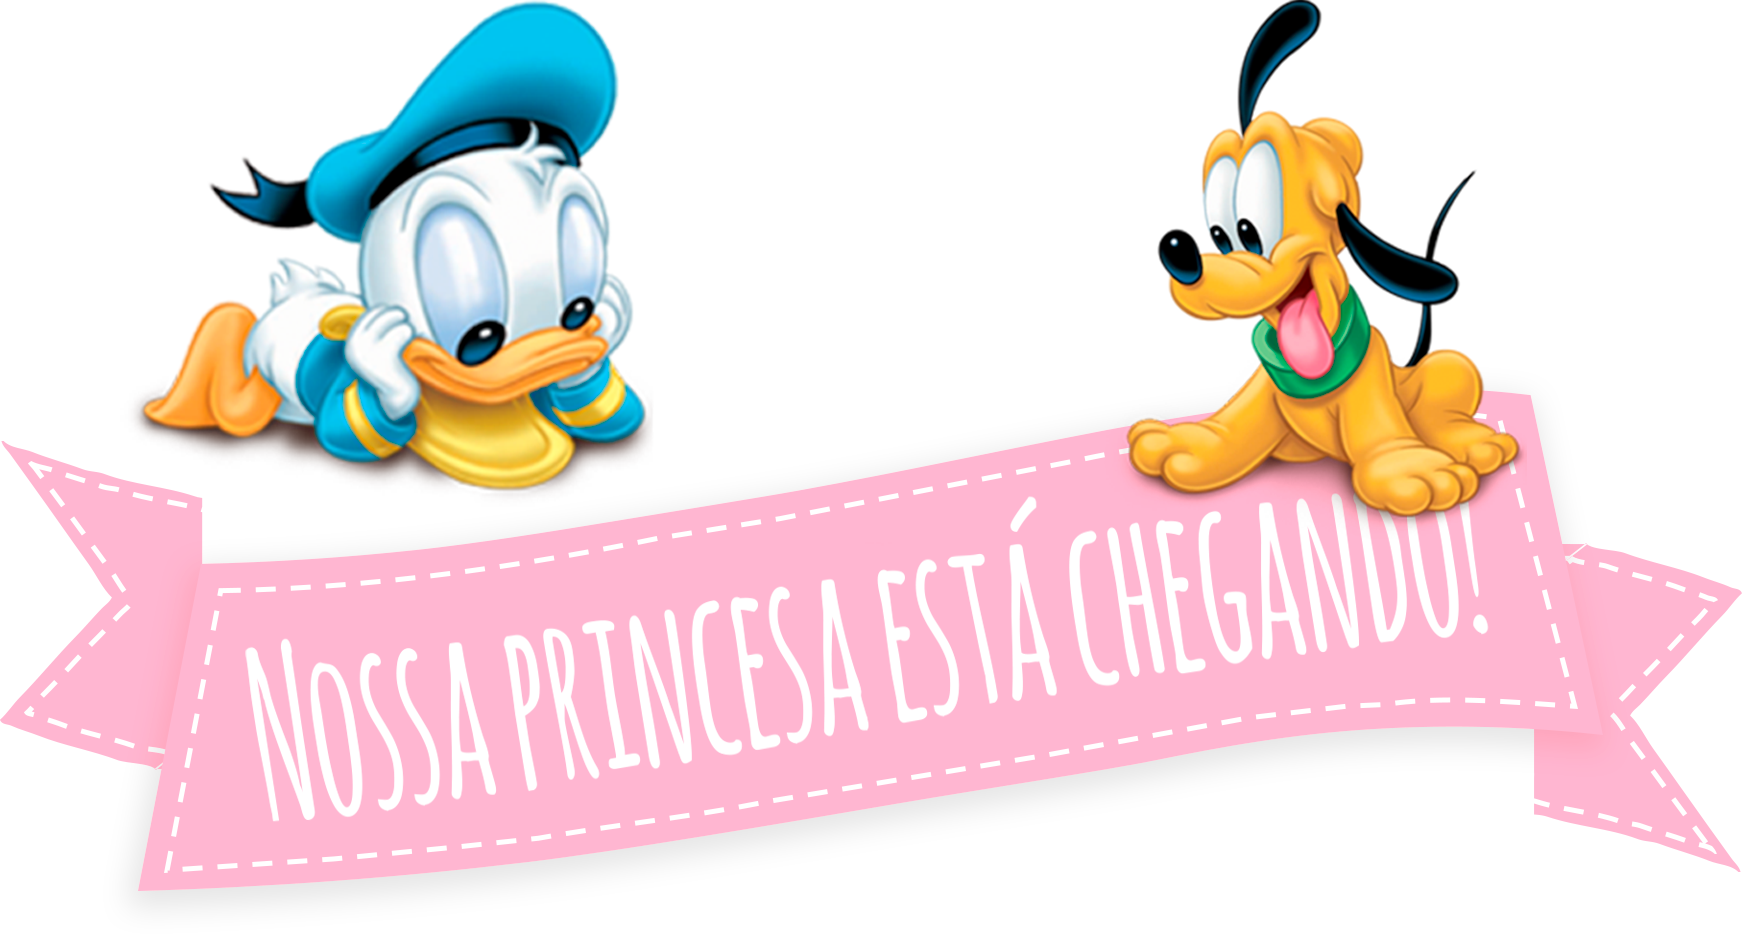
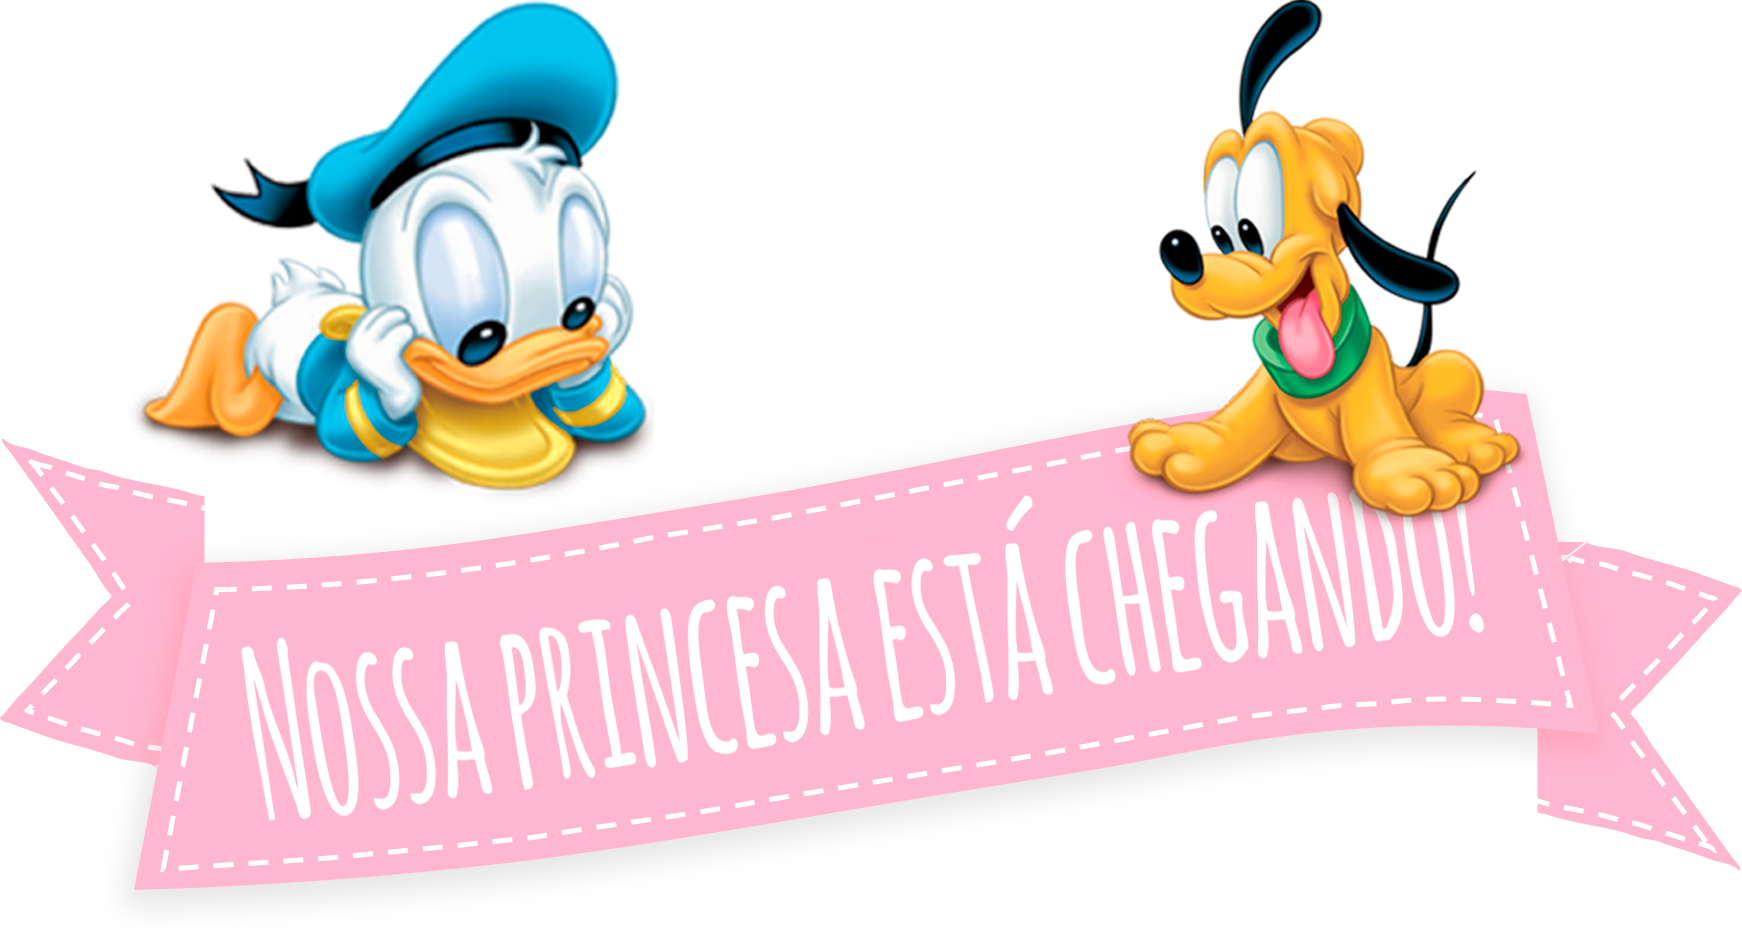
Ajuste de dimensoes

diff --git a/css/main.css b/css/main.css
@@ -18,11 +18,7 @@ body{
     z-index:-1;
 
 }
-#pluto {
-    width: 25%;
-    position: absolute;
-    top: 5px;
-}
+
 #itens {
     display: flex;
     background-color: #f6f6f6;
@@ -57,18 +53,14 @@ body{
     }
   }
 
-  @media screen and (min-width:10px){
-    #pluto {
-        width: 140px;
+@media screen and (min-width:10px){
 
-    }
     #faixa {
-        width: 482.8;
-        left: 1.38px;
-
+        width: 443.8;
+        
     }
     #itens{
-        width: 370px;
+        width: 340px;
         height: 1200px;
         top: 10%;
     }
@@ -101,13 +93,8 @@ body{
     }
 }
 @media screen and (min-width:500px){
-    #pluto {
-        width: 185px;
-        right: 60px;
-    }
     #faixa {
         width: 588.52;
-        left: 1.5px;
 
     }
     #itens{
@@ -144,13 +131,8 @@ body{
     }
 }
 @media screen and (min-width:768px){
-    #pluto {
-        width: 255px;
-        left: 62%;
-    }
     #faixa {
         width: 980.29;
-        left: 2.14px;
     }
     #itens{
         width: 750px;
@@ -183,13 +165,8 @@ body{
     }
 }
 @media screen and (min-width:1300px){
-    #pluto {
-        width: 275px;
-        left: 59%;
-    }
     #faixa {
         width: 1176.35;
-        left: 2.2px;
 
     }
     #itens{
